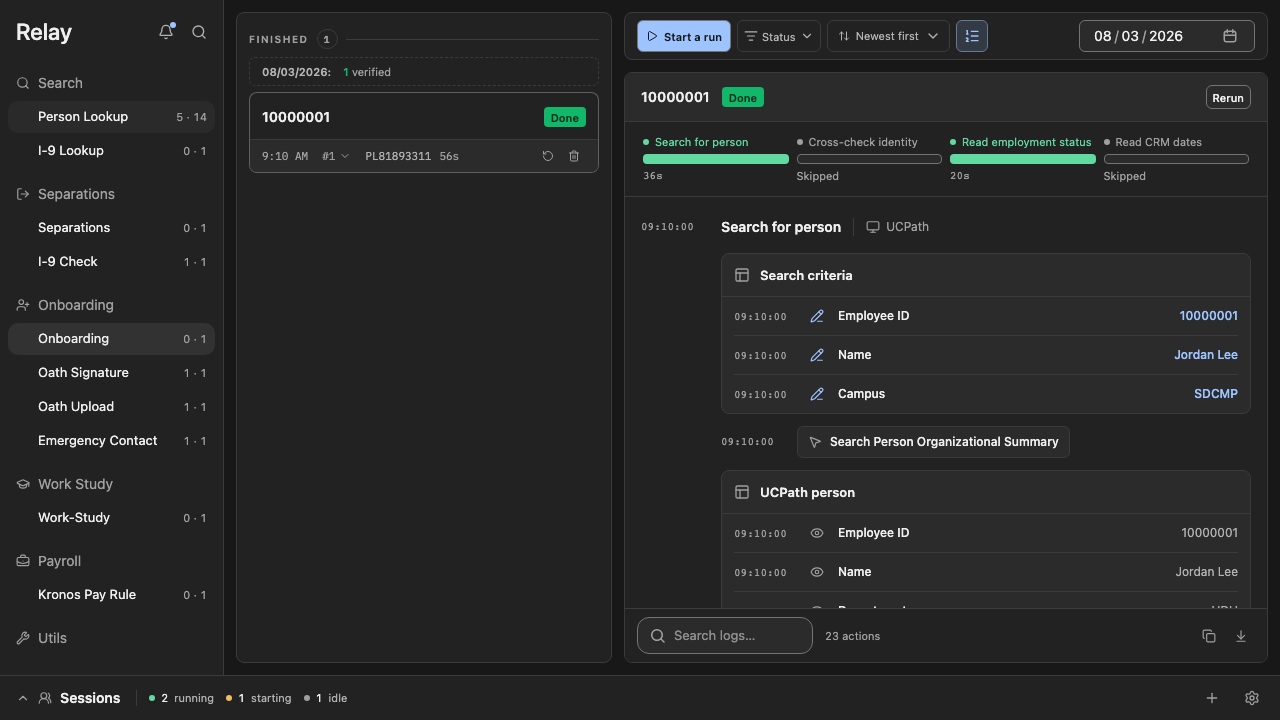
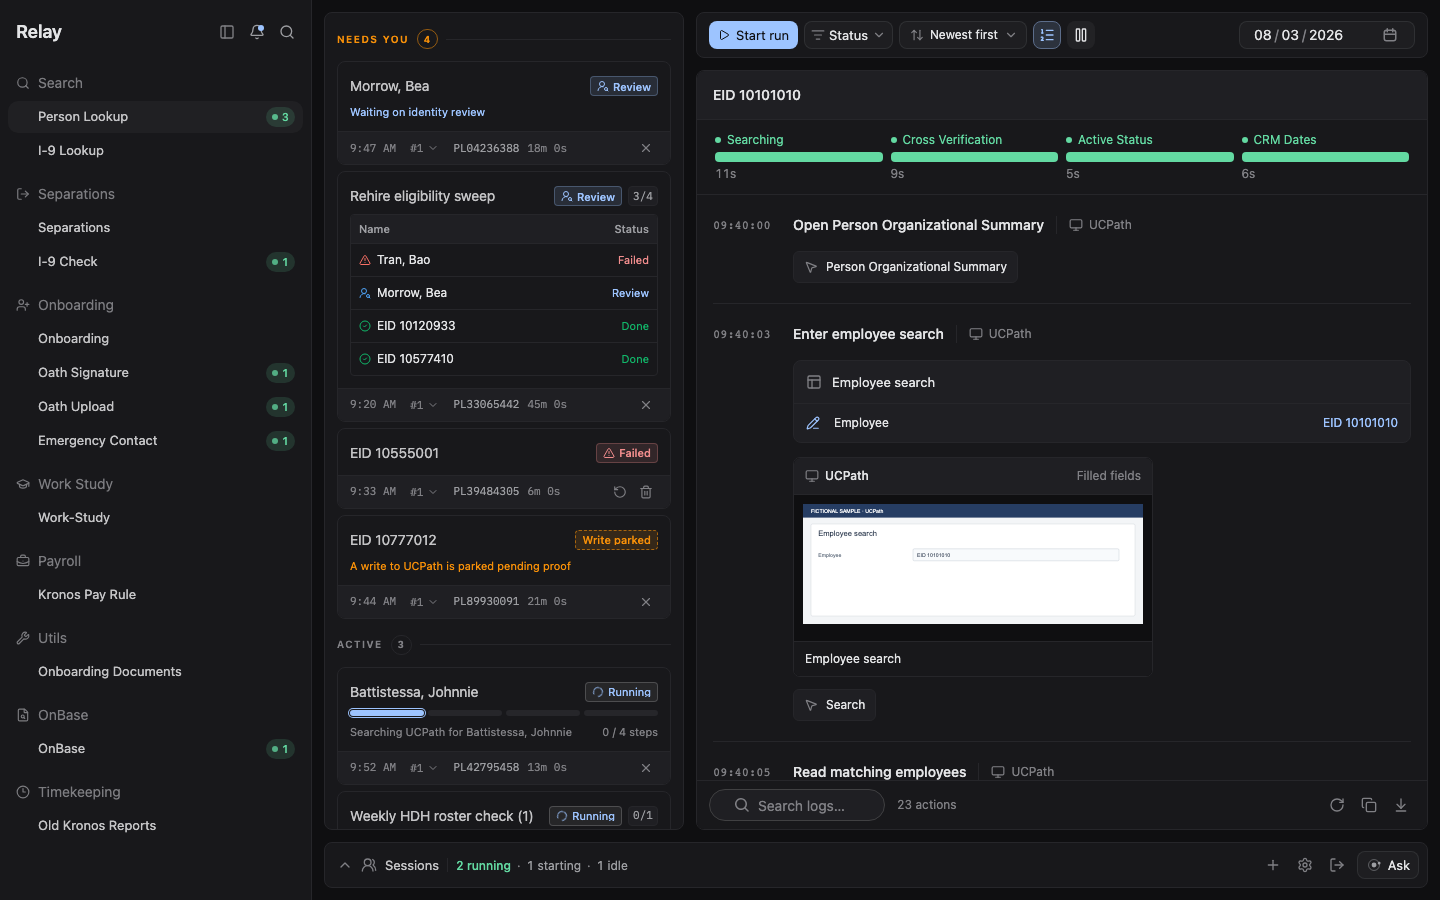
docs: capture the current dashboard and point naming at Conventions
The README image is a fixture-served dashboard capture. Governance and the
codebase map send branch and worktree naming to the Conventions section, and
the map lists the Windows launcher guide.

diff --git a/docs/reference/codebase-structure.md b/docs/reference/codebase-structure.md
@@ -12,6 +12,7 @@ This map names the current source, test, and documentation owners. Relay runs lo
 | `config/` | Runtime isolation and test-data configuration. |
 | `docs/reference/` | Current contracts and this map. |
 | `docs/guides/` | Workflow authoring guide. |
+| `docs/guides/windows.md` | Windows launcher steps. |
 | `docs/guard-inventory.json` | Guard owners and reasons. |
 | `docs/roadmap/roadmap.md` | Roadmap content. |
 | `docs/roadmap/index.html` | Generated roadmap site. |
@@ -30,7 +31,7 @@ This map names the current source, test, and documentation owners. Relay runs lo
 owns the contract fingerprint and build id.
 `npm run roadmap` generates the roadmap site; `npm run roadmap:check` checks it.
 `npm run web:build` produces the dashboard bundle in `dist/`.
-Briefs, receipts, and task evidence live in the main checkout's gitignored `.work/` folder. The [Git instructions](../../AGENTS.md#git) own worktree naming and lifecycle.
+Briefs, receipts, and task evidence live in the main checkout's gitignored `.work/` folder. The [Conventions](../../AGENTS.md#conventions) own worktree naming and lifecycle.
 
 `src/backend/runtime/writes/recovery-activity.ts` owns retained-run recovery read activity, action notes and required captures. `src/models/run/recovery-activity.ts` owns its exact operation identity and task-compatible note path.
 

diff --git a/docs/repository-governance.md b/docs/repository-governance.md
@@ -1,6 +1,6 @@
 # Repository governance
 
-The [root Git instructions](../AGENTS.md#git) own branch and release policy.
+The [Conventions](../AGENTS.md#conventions) own branch naming. The [root Git instructions](../AGENTS.md#git) own release policy.
 
 ## Branch protection
 
